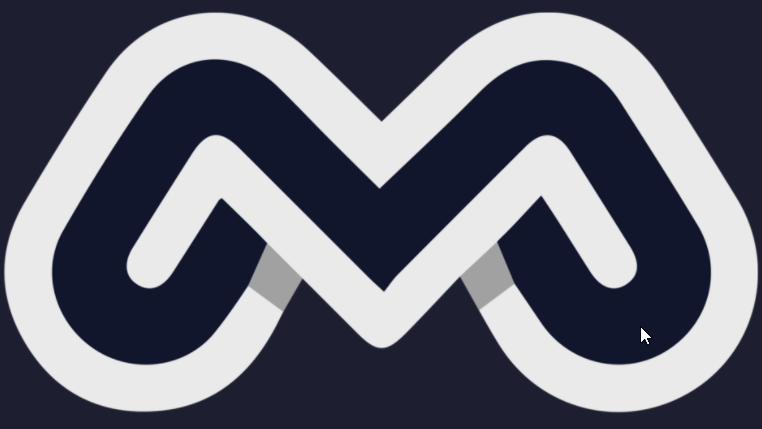
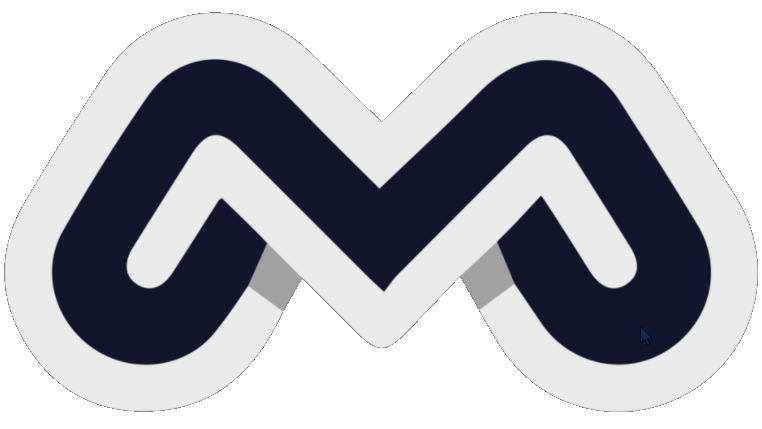
remove bg mart

diff --git a/Mart.html b/Mart.html
@@ -106,7 +106,7 @@
 		<div class="block side3">
 			<div class="container side">
 				<div class="half_side side_left">
-					<img class="img-own" src="./img/mart/Mart-removebg-preview (3).png" />
+					<img class="img-own" src="./img/mart/Mart.png" />
 				</div>
 				<div class="half_side side_right">
 					<p class="title is-3 has-text-centered">How it’s going</p>
